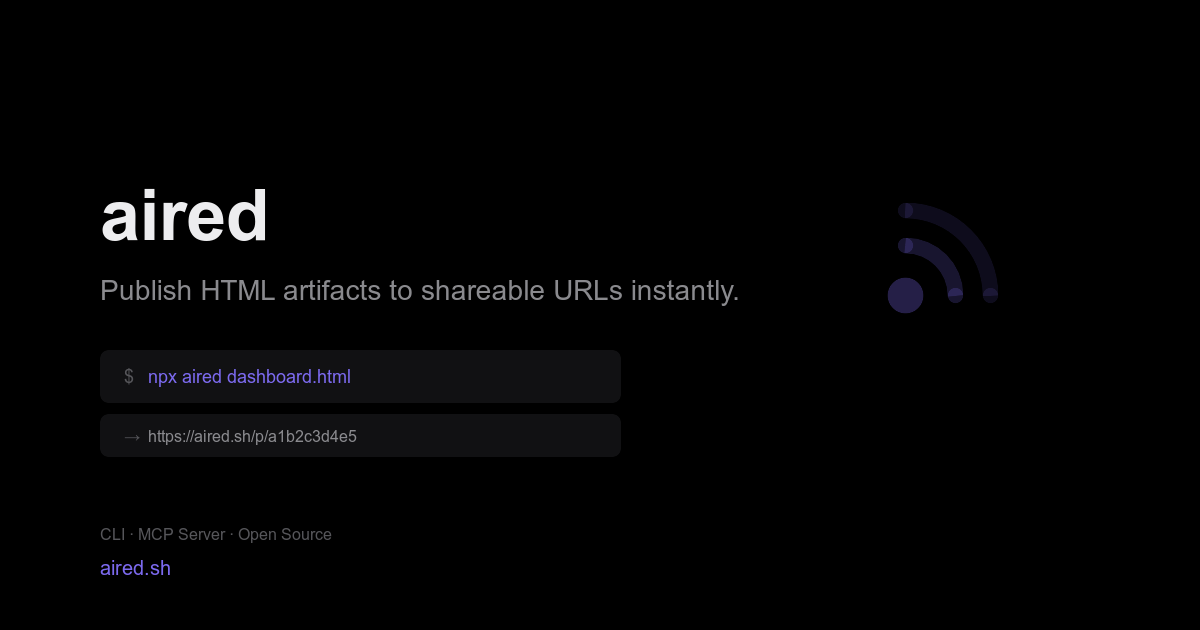
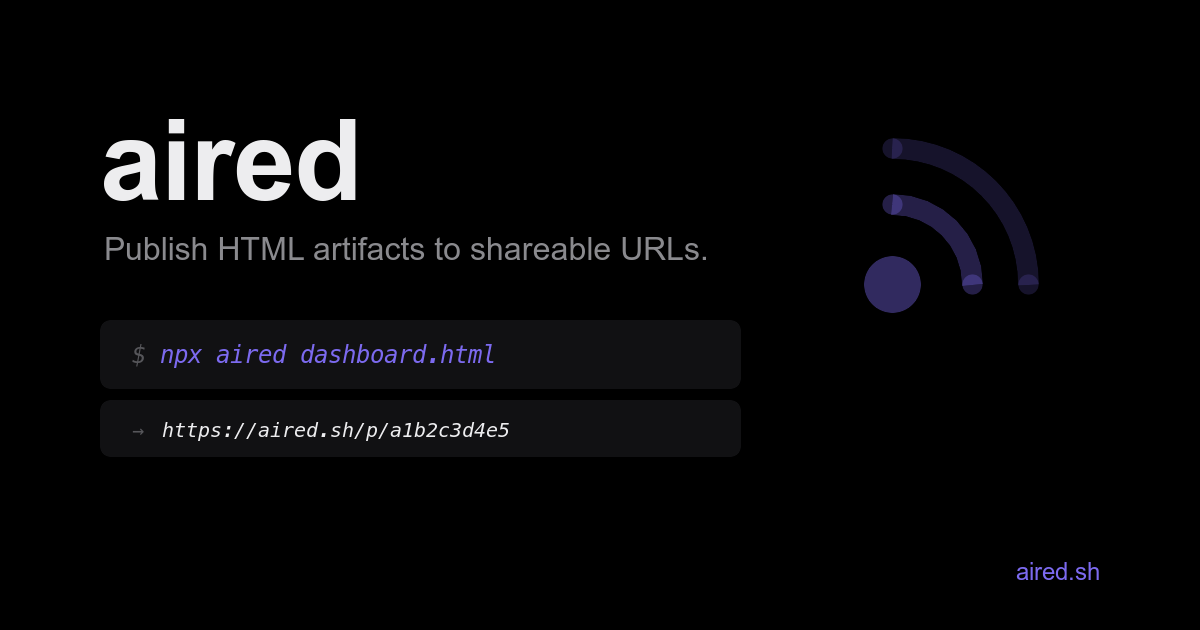
refine: bolder OG images — bigger text, prominent beacon, less clutter
Static: 112px wordmark, larger terminal block, visible broadcast icon.
Dynamic: 80px page title, bigger URL bar, consistent beacon treatment.
Inspired by v0/Liveblocks/Stripe OG patterns.

diff --git a/apps/worker/src/routes/og.ts b/apps/worker/src/routes/og.ts
@@ -65,8 +65,9 @@ function renderOgSvg(opts: {
 
   return `<svg xmlns="http://www.w3.org/2000/svg" width="1200" height="630" viewBox="0 0 1200 630">
   <defs>
-    <radialGradient id="glow" cx="75%" cy="50%" r="50%">
-      <stop offset="0%" stop-color="#7c6aef" stop-opacity="0.06"/>
+    <radialGradient id="glow" cx="80%" cy="45%" r="45%">
+      <stop offset="0%" stop-color="#7c6aef" stop-opacity="0.12"/>
+      <stop offset="60%" stop-color="#7c6aef" stop-opacity="0.03"/>
       <stop offset="100%" stop-color="#0a0a0b" stop-opacity="0"/>
     </radialGradient>
   </defs>
@@ -75,30 +76,29 @@ function renderOgSvg(opts: {
   <rect width="1200" height="630" fill="url(#glow)"/>
 
   <!-- Broadcast beacon -->
-  <g transform="translate(880, 160) scale(5.5)">
-    <circle cx="9" cy="23" r="3.5" fill="#7c6aef" opacity="0.25"/>
-    <path d="M9 13 A10 10 0 0 1 19 23" fill="none" stroke="#7c6aef" stroke-width="3" stroke-linecap="round" opacity="0.15"/>
-    <path d="M9 6 A17 17 0 0 1 26 23" fill="none" stroke="#7c6aef" stroke-width="3" stroke-linecap="round" opacity="0.08"/>
+  <g transform="translate(820, 100) scale(8)">
+    <circle cx="9" cy="23" r="3.5" fill="#7c6aef" opacity="0.4"/>
+    <path d="M9 13 A10 10 0 0 1 19 23" fill="none" stroke="#7c6aef" stroke-width="2.5" stroke-linecap="round" opacity="0.3"/>
+    <path d="M9 6 A17 17 0 0 1 26 23" fill="none" stroke="#7c6aef" stroke-width="2.5" stroke-linecap="round" opacity="0.18"/>
   </g>
 
-  <!-- Page title -->
-  <text x="100" y="260" font-family="system-ui, -apple-system, sans-serif" font-size="56" font-weight="600" fill="#ededef" letter-spacing="-0.03em">${title}</text>
+  <!-- Page title — large and bold -->
+  <text x="100" y="220" font-family="system-ui, -apple-system, sans-serif" font-size="80" font-weight="600" fill="#ededef" letter-spacing="-0.03em">${title}</text>
 
   <!-- Meta row -->
-  <text x="100" y="320" font-family="system-ui, -apple-system, sans-serif" font-size="24" fill="#8a8a8e">
+  <text x="104" y="280" font-family="system-ui, -apple-system, sans-serif" font-size="28" fill="#8a8a8e">
     <tspan>${viewsText}</tspan>
     <tspan dx="16" fill="#56565a">·</tspan>
     <tspan dx="16">${expiryText}</tspan>
   </text>
 
   <!-- URL bar -->
-  <rect x="100" y="380" width="440" height="48" rx="8" fill="#111113" stroke="#222225" stroke-width="1"/>
-  <text x="124" y="411" font-family="monospace" font-size="18" fill="#56565a">aired.sh/p/</text>
-  <text x="292" y="411" font-family="monospace" font-size="18" fill="#7c6aef">${id}</text>
+  <rect x="100" y="340" width="560" height="62" rx="10" fill="#111113" stroke="#222225" stroke-width="1.5"/>
+  <text x="132" y="380" font-family="ui-monospace, SFMono-Regular, Menlo, monospace" font-size="22" fill="#56565a">aired.sh/p/</text>
+  <text x="350" y="380" font-family="ui-monospace, SFMono-Regular, Menlo, monospace" font-size="22" fill="#7c6aef">${id}</text>
 
-  <!-- Bottom branding -->
-  <text x="100" y="560" font-family="system-ui, -apple-system, sans-serif" font-size="20" font-weight="500" fill="#7c6aef">aired</text>
-  <text x="170" y="560" font-family="system-ui, -apple-system, sans-serif" font-size="16" fill="#56565a">Publish HTML artifacts instantly</text>
+  <!-- Branding bottom right -->
+  <text x="1100" y="580" font-family="system-ui, -apple-system, sans-serif" font-size="24" font-weight="500" fill="#7c6aef" text-anchor="end">aired.sh</text>
 </svg>`;
 }
 
